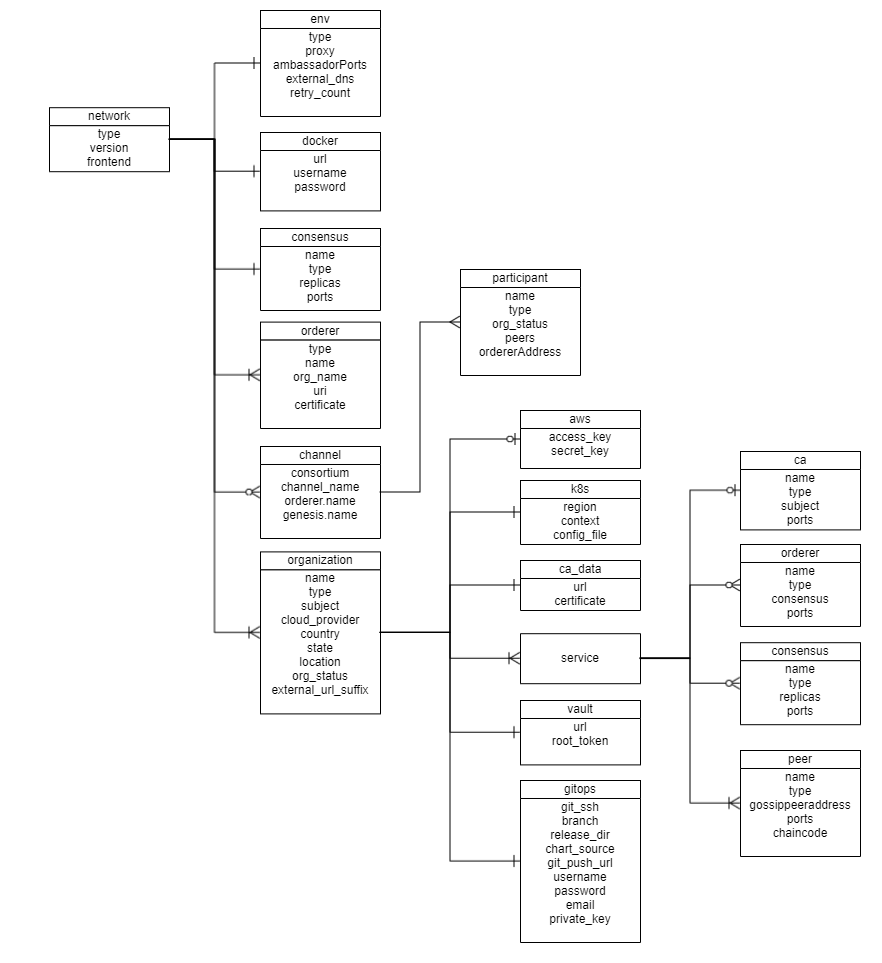
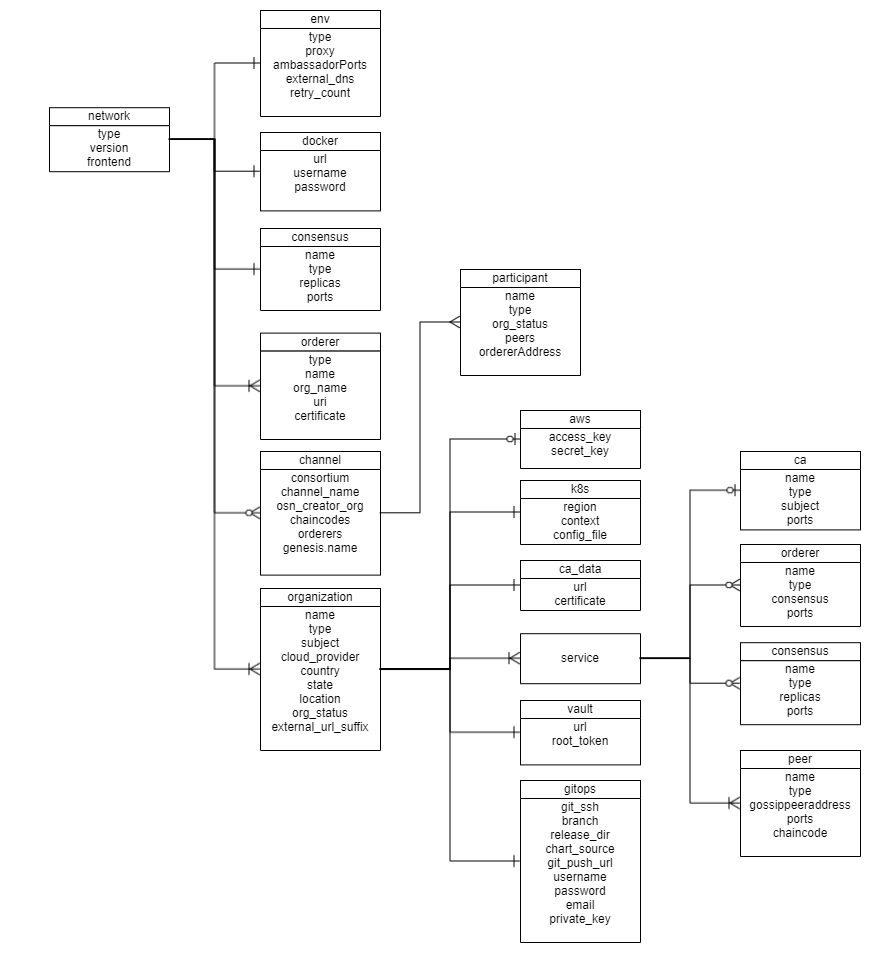
[fabric] Update chaincode charts to be compatible with version 2.5.4
Primary Changes
--------------
 1. Updated  chaincode charts
 2. Fixed a bug that occurred when creating the genesis file with an incorrect channel name
 3. Removed $NAME variables from charts due to conflicts

Modifications in docs
-----------------------
docs/source/_static/TopLevelClass-Fabric.png
docs/source/operations/fabric_networkyaml.md

Modifications in charts
-----------------------
platforms/hyperledger-fabric/charts/commit_chaincode/templates/commit_chaincode.yaml platforms/hyperledger-fabric/charts/install_chaincode/templates/install_chaincode.yaml

Modifications in roles and tpl files
-----------------------
platforms/hyperledger-fabric/configuration/chaincode-ops.yaml platforms/hyperledger-fabric/configuration/deploy-network.yaml platforms/hyperledger-fabric/configuration/roles/helm_component/templates/commit_chaincode_job.tpl

Others Modifications
----------------------------------------
platforms/hyperledger-fabric/configuration/samples/network-fabricv2.yaml

fixes #2385

diff --git a/docs/source/operations/fabric_networkyaml.md b/docs/source/operations/fabric_networkyaml.md
@@ -44,7 +44,7 @@ The sections in the sample configuration file are:
 
 `type` defines the platform choice like corda/fabric, here in the example its Fabric
 
-`version` defines the version of platform being used. The current Fabric version support is 1.4.8 & 2.2.2
+`version` defines the version of platform being used. The current Fabric version support is 1.4.8, 2.2.2 & 2.5.4
 
 `frontend` is a flag which defines if frontend is enabled for nodes or not. Its value can only be enabled/disabled. This is only applicable if the sample Supplychain App is being installed.
 
@@ -155,6 +155,8 @@ The snapshot of channels section with its fields and sample values is below
   - channel:
     consortium: SupplyChainConsortium
     channel_name: AllChannel
+    osn_creator_org: 
+      name: supplychain
     chaincodes:
       - "chaincode_name"
     orderers: 
@@ -239,6 +241,7 @@ The fields under the `channel` are
 |---------------------------------|------------------------------------------------------------|
 | consortium                      | Name of the consortium, the channel belongs to             |
 | channel_name                    | Name of the channel                                        |
+| osn_creator_org.name            | Name of the organization whose orderers will create the channel                                 |
 | chaincodes                      | Contains list of chaincodes for the channel                |
 | genesis.name                    | Name of the genesis block                                  |
 | orderers                        | List of names of the organizations providing ordering service           |
